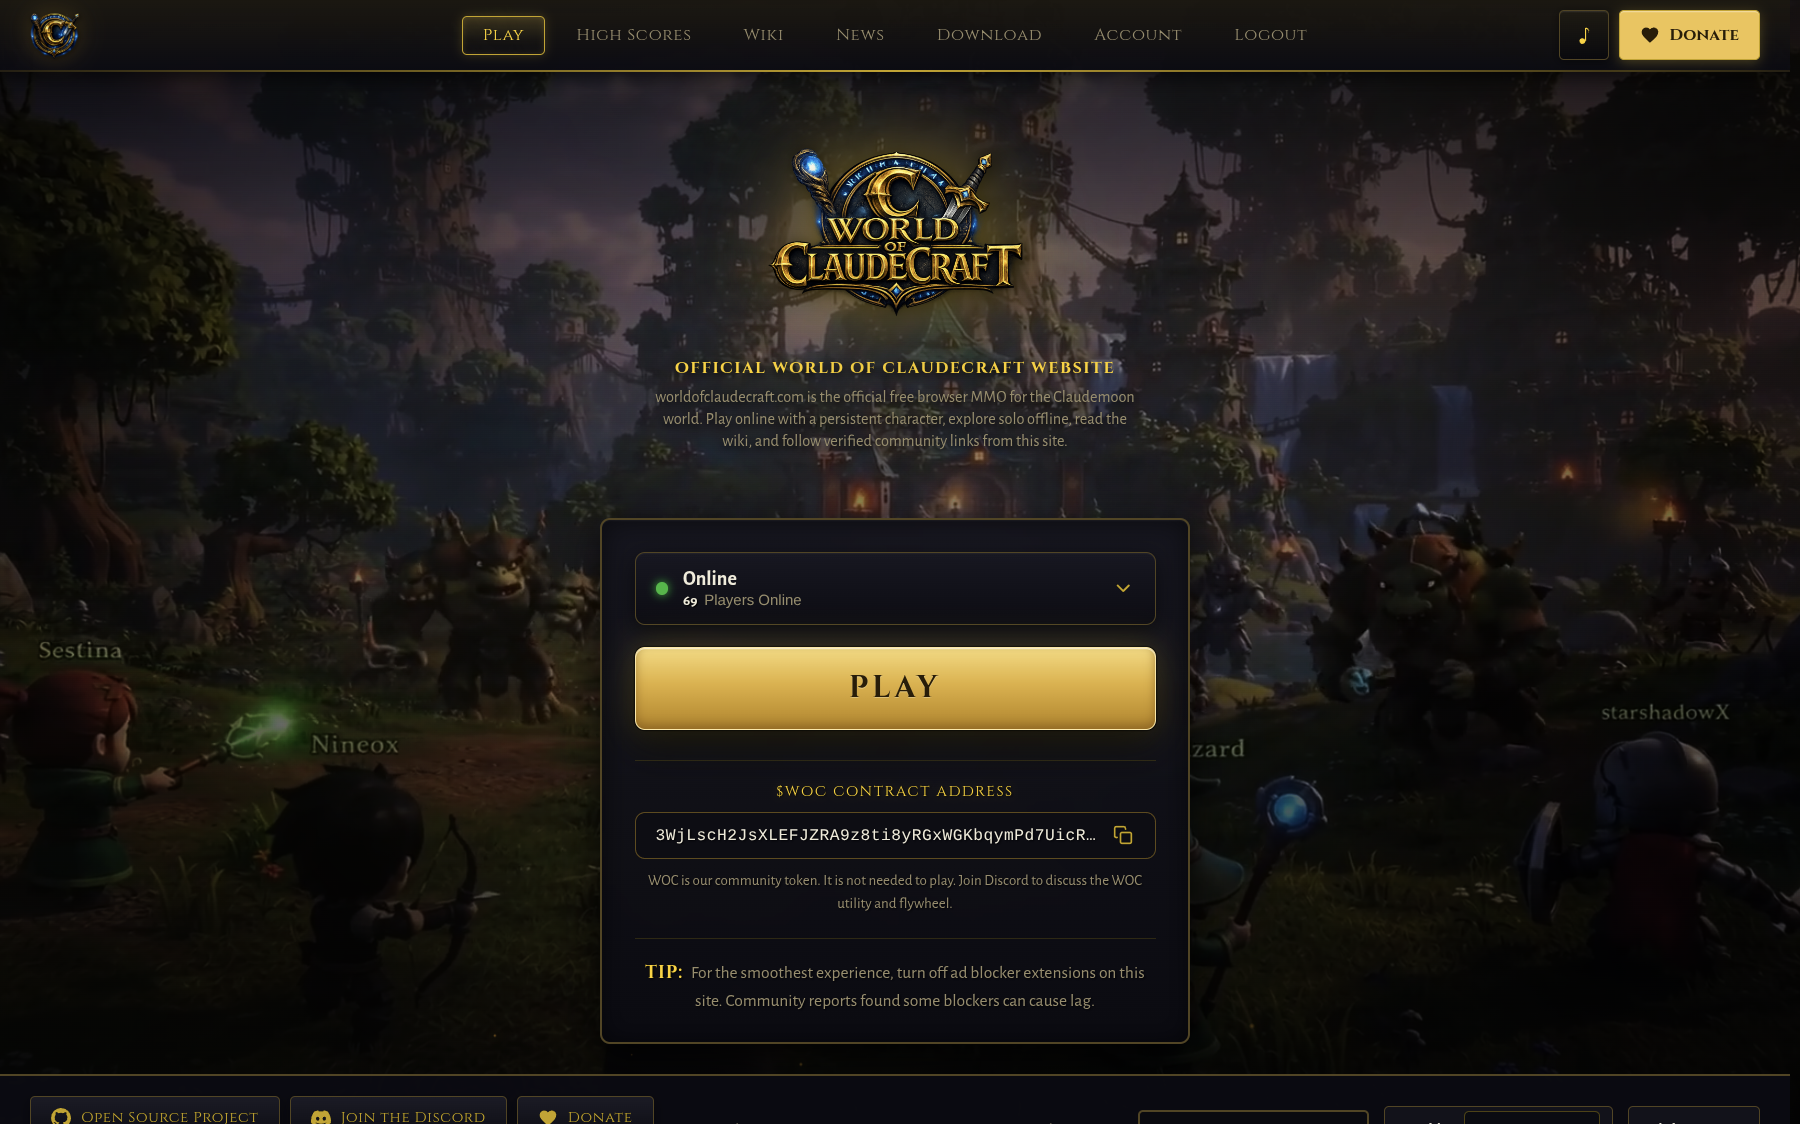
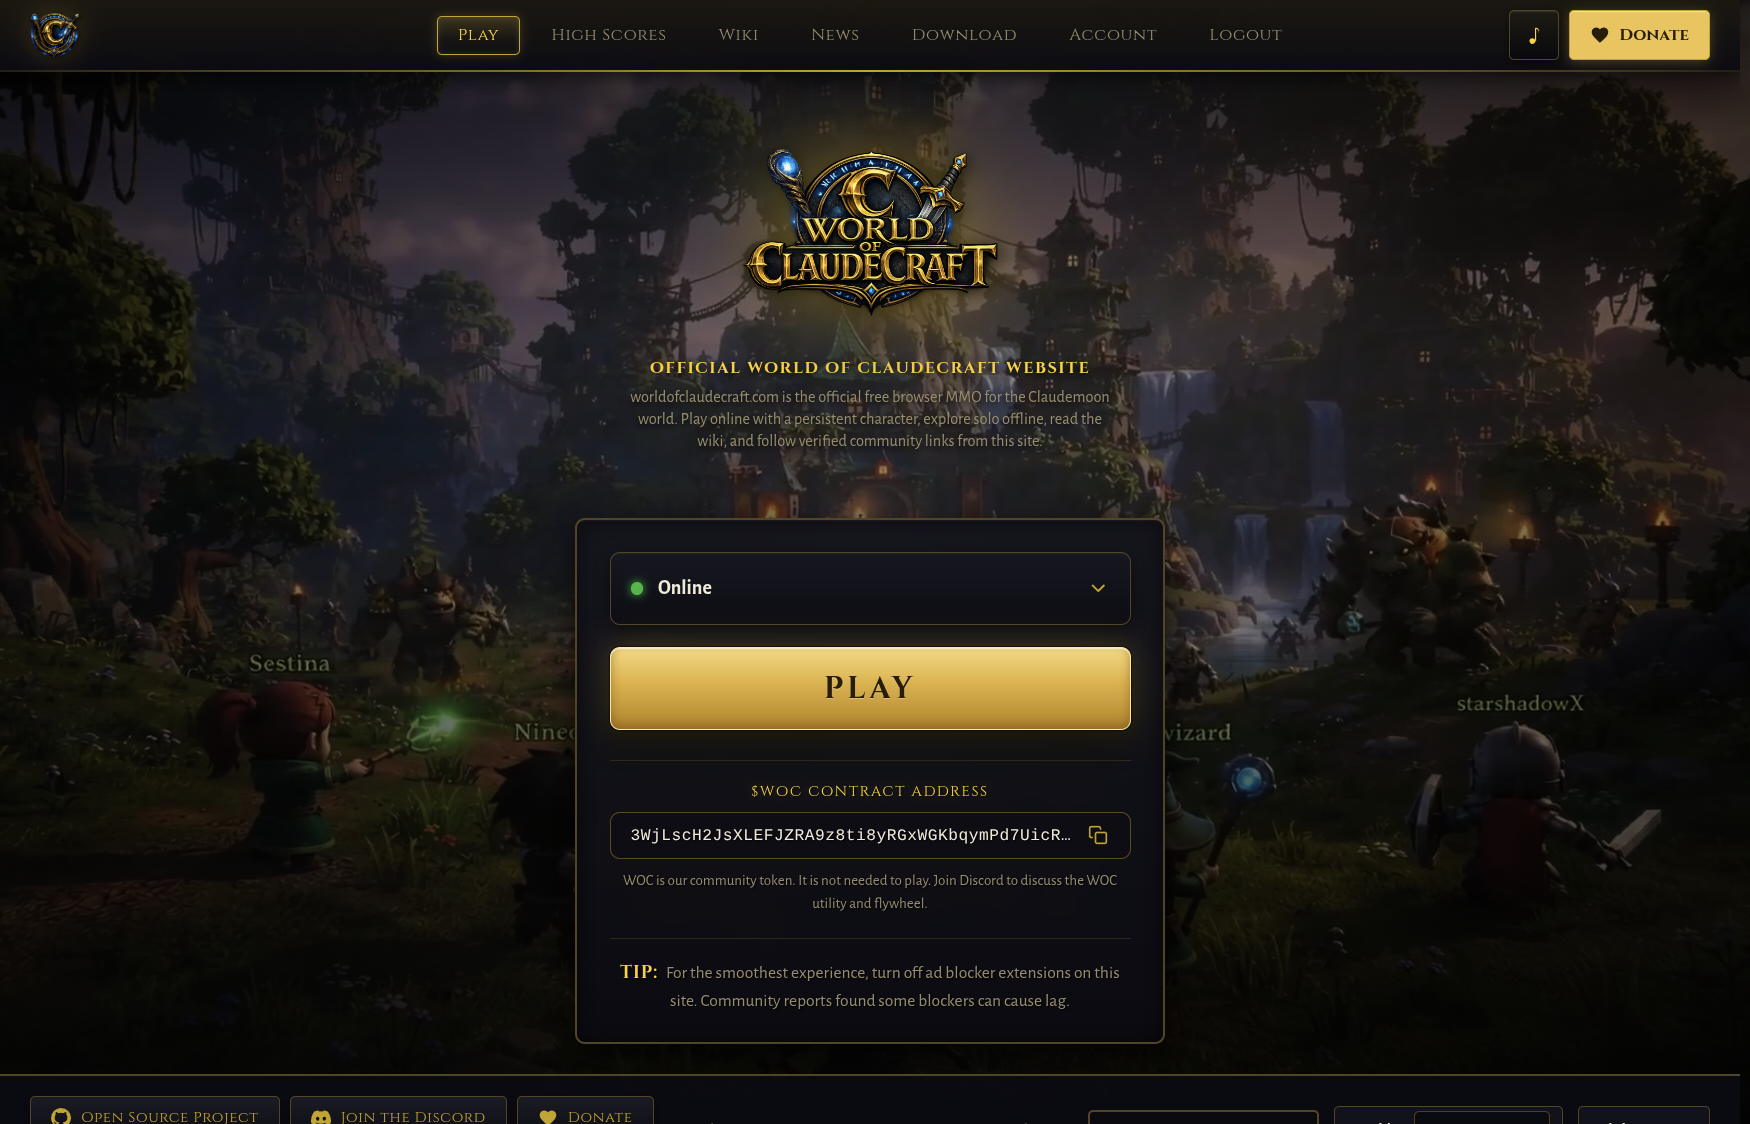
fix(www): remove the player-count stat instead of just relabeling it
A prior commit on this branch rebound the misleading "Players" stat
(actually accounts_created, a lifetime signup total shown next to the
green "Online" dot) to the real players_online live count instead.
Simpler fix per follow-up direction: don't show any player-count
figure on these pages at all.

Removes loadProjectStats() and its localStorage cache from main.ts,
the stat DOM hooks from index.html and play.html, and the CSS that
only existed to style them, leaving just the existing plain
"Online"/"Offline" status text.

diff --git a/tests/project_stats_label.test.ts b/tests/project_stats_label.test.ts
@@ -1,11 +1,12 @@
-// Regression test for the misleading landing-page player count: the "Online" realm
-// option and the /play online status line showed accounts_created (a lifetime total
-// of every account ever registered) under a label that read "Players", right next to
-// the green "Online" dot, implying that many players were concurrently online. The
-// fix rebinds that element to the live players_online count and its matching,
-// already-translated "Players Online" label. Pinned as source greps (matching this
-// suite's existing style, e.g. tests/play_online_only.test.ts) since loadProjectStats
-// lives inside the src/main.ts coordinator, not an extractable pure module.
+// Regression test: the landing page's "Online" realm option and the /play online
+// status line used to show accounts_created (a lifetime total of every account ever
+// registered) under a label that read "Players", right next to the green "Online" dot,
+// implying that many players were concurrently online. That was fixed once to show the
+// real players_online count instead, then removed outright: neither page shows any
+// player-count figure at all anymore, only the plain "Online"/"Offline" status. Pinned
+// as source greps (matching this suite's existing style, e.g.
+// tests/play_online_only.test.ts) since this lives inside the src/main.ts coordinator,
+// not an extractable pure module.
 import { readFileSync } from 'node:fs';
 import { describe, expect, it } from 'vitest';
 
@@ -15,19 +16,21 @@ const indexHtml = read('index.html');
 const playHtml = read('play.html');
 const mainTs = read('src/main.ts');
 
-describe('landing/play online stat shows live players, not lifetime accounts', () => {
-  it('index.html and play.html label the stat "Players Online", not "Players"', () => {
+describe('landing/play pages show no player-count stat', () => {
+  it('index.html and play.html carry no player-count element or stats-value class', () => {
     for (const html of [indexHtml, playHtml]) {
-      expect(html).toContain('js-stat-players-online');
-      expect(html).toContain('data-i18n="stats.playersOnline"');
       expect(html).not.toContain('js-stat-accounts');
+      expect(html).not.toContain('js-stat-players-online');
+      expect(html).not.toContain('class="stats-value');
       expect(html).not.toContain('data-i18n="stats.accountsCreated"');
+      expect(html).not.toContain('data-i18n="stats.playersOnline"');
     }
   });
 
-  it('main.ts binds the stat to players_online, not accounts_created', () => {
-    expect(mainTs).toContain("querySelectorAll<HTMLElement>('.js-stat-players-online')");
-    expect(mainTs).toContain('setAll(accountEls, String(cached.players_online));');
-    expect(mainTs).toContain('setAll(accountEls, String(data.players_online));');
+  it('main.ts has no project-stats fetch/display wiring', () => {
+    expect(mainTs).not.toContain('loadProjectStats');
+    expect(mainTs).not.toContain('projectStats()');
+    expect(mainTs).not.toContain('accounts_created');
+    expect(mainTs).not.toContain('players_online');
   });
 });

diff --git a/src/main.ts b/src/main.ts
@@ -5319,9 +5319,6 @@ function renderClassDetails(
   }
 }
 
-const STATS_CACHE_KEY = 'woc_cached_stats';
-const STATS_CACHE_TTL_MS = 30000; // 30 seconds
-
 function readTranslationKey(value: string | null): TranslationKey | null {
   return value ? (value as TranslationKey) : null;
 }
@@ -5506,68 +5503,6 @@ async function changeLanguage(
   refreshLocalizedDynamicShell();
   document.dispatchEvent(new CustomEvent('woc:languagechange', { detail: { language: selected } }));
   return true;
-}
-
-async function loadProjectStats(): Promise<void> {
-  // Realm status now lives in the realm dropdown, both in the trigger sub-line
-  // and inside the Online option, so update every instance by class. This shows
-  // players_online (a live headcount), never accounts_created (a lifetime total
-  // that reads as a live player count next to the green "Online" dot but isn't one).
-  const accountEls = document.querySelectorAll<HTMLElement>('.js-stat-players-online');
-  if (!accountEls.length) return;
-  const setAll = (els: NodeListOf<HTMLElement>, text: string): void => {
-    els.forEach((el) => {
-      el.textContent = text;
-    });
-  };
-
-  // 1. Try to read from localStorage first
-  let cached: {
-    realm: string;
-    accounts_created: number;
-    players_online: number;
-    timestamp: number;
-  } | null = null;
-  if (typeof localStorage !== 'undefined') {
-    const raw = localStorage.getItem(STATS_CACHE_KEY);
-    if (raw) {
-      try {
-        cached = JSON.parse(raw);
-      } catch {}
-    }
-  }
-
-  // If cache exists and is fresh (within TTL), use it and skip API request
-  if (cached && Date.now() - cached.timestamp < STATS_CACHE_TTL_MS) {
-    setAll(accountEls, String(cached.players_online));
-    return;
-  }
-
-  // 2. Fetch fresh stats
-  try {
-    const data = await api.projectStats();
-
-    setAll(accountEls, String(data.players_online));
-
-    // Save to cache with timestamp
-    if (typeof localStorage !== 'undefined') {
-      localStorage.setItem(
-        STATS_CACHE_KEY,
-        JSON.stringify({
-          ...data,
-          timestamp: Date.now(),
-        }),
-      );
-    }
-  } catch (err) {
-    console.error('Failed to fetch project stats:', err);
-    // If API fails, fall back to cached data (even if expired)
-    if (cached) {
-      setAll(accountEls, String(cached.accounts_created));
-    } else {
-      setAll(accountEls, '–');
-    }
-  }
 }
 
 // Home-page global (cross-realm) lifetime-XP leaderboard. Server computes the
@@ -7448,7 +7383,6 @@ function wireStartScreens(): void {
   // startGame await re-runs the load (in-flight cleared on reject) and owns the fallback.
   void ensureDeedLocalesLoaded(bootLang).catch(() => {});
   hydrateIcons();
-  void loadProjectStats();
   wireContractAddressCopy();
   wireHomepageMusicToggle();
   void wireWallet();

diff --git a/index.html b/index.html
@@ -656,9 +656,6 @@
                 <span class="server-select-text">
                   <span class="server-select-value" id="server-select-value" data-i18n="mode.serverOnline">Online</span>
                   <span class="server-select-sub" id="server-select-sub">
-                    <span class="server-realm-line" data-mode="online">
-                      <b class="stats-value js-stat-players-online">…</b> <span data-i18n="stats.playersOnline">Players Online</span>
-                    </span>
                     <span class="server-sub-offline" data-mode="offline" data-i18n="mode.serverOfflineSub" hidden>Instant local world</span>
                   </span>
                 </span>
@@ -670,9 +667,6 @@
                   <span class="server-opt-text">
                     <span class="server-opt-name" data-i18n="mode.serverOnline">Online</span>
                     <span class="server-opt-desc" data-i18n="mode.onlineDesc">Log in to the world. Your characters live on the server and you share the world with everyone else who's on.</span>
-                    <span class="server-opt-stats">
-                      <b class="stats-value js-stat-players-online">…</b> <span data-i18n="stats.playersOnline">Players Online</span>
-                    </span>
                   </span>
                   <svg class="server-opt-check" viewBox="0 0 24 24" aria-hidden="true" fill="none" stroke="currentColor" stroke-width="2.5" stroke-linecap="round" stroke-linejoin="round"><polyline points="20 6 9 17 4 12"></polyline></svg>
                 </div>

diff --git a/src/styles/shell.css b/src/styles/shell.css
@@ -1136,8 +1136,6 @@
     color: var(--color-text-muted);
   }
 
-  /* Realm stats, live counts shown in the realm dropdown (trigger sub-line +
-     the opened Online option). */
   .realm-status-sep {
     display: inline-block;
     width: 1px;
@@ -1146,21 +1144,6 @@
     vertical-align: middle;
     background: rgba(255, 209, 0, 0.3);
   }
-  .server-realm-line .stats-value,
-  .server-opt-stats .stats-value {
-    font-family: var(--font-ui);
-    font-size: 12px;
-    font-weight: 700;
-    color: var(--color-text-light);
-    margin-right: 2px;
-  }
-  .server-opt-stats {
-    display: block;
-    margin-top: 6px;
-    font-size: 12px;
-    color: var(--color-text-muted);
-  }
-  .server-realm-line[hidden],
   .server-sub-offline[hidden] {
     display: none;
   }
@@ -1198,14 +1181,6 @@
     font-size: 11.5px;
     text-transform: uppercase;
     letter-spacing: 0.5px;
-  }
-
-  .stats-value {
-    color: var(--color-text-light);
-    font-family: var(--font-heading);
-    font-size: 16px;
-    font-weight: bold;
-    text-shadow: 1px 1px 1px #000;
   }
 
   #stat-players-online {

diff --git a/src/styles/play.extra.css b/src/styles/play.extra.css
@@ -20,9 +20,9 @@
     }
   }
 
-  /* /play is online-only: the play console is just the Play button over a live
-     players line (no realm selector). Undo the two-column landscape grid the
-     shared hud.mobile.css applies to the selector + button pair. */
+  /* /play is online-only: the play console is just the Play button over a static
+     online status line (no realm selector, no live count). Undo the two-column
+     landscape grid the shared hud.mobile.css applies to the selector + button pair. */
   .play-console-solo,
   body.mobile-touch .play-console-solo {
     display: flex;
@@ -43,8 +43,5 @@
     font-size: 13px;
     color: var(--color-text-muted);
     text-shadow: 1px 1px 2px #000;
-  }
-  .play-online-status .stats-value {
-    color: var(--color-text-light);
   }
 }

diff --git a/tests/play_online_only.test.ts b/tests/play_online_only.test.ts
@@ -30,10 +30,11 @@ describe('/play is online-only', () => {
     }
     // The online compat trigger stays: E2E tours drive the online flow through it.
     expect(playHtml).toContain('id="btn-online"');
-    // The solo console keeps the single Play CTA plus the live players line.
+    // The solo console keeps the single Play CTA plus a static online status line
+    // (no live player count: see docs/screenshots/misleading-online-players).
     expect(playHtml).toContain('class="play-console play-console-solo"');
     expect(playHtml).toContain('id="btn-play"');
-    expect(playHtml).toContain('js-stat-players-online');
+    expect(playHtml).toContain('class="play-online-status"');
   });
 
   it('index.html (the landing page) keeps the realm dropdown and offline flow', () => {

diff --git a/play.html b/play.html
@@ -591,7 +591,7 @@
             </button>
             <div class="play-online-status">
               <span class="server-dot" data-mode="online" aria-hidden="true"></span>
-              <b class="stats-value js-stat-players-online">…</b> <span data-i18n="stats.playersOnline">Players Online</span>
+              <span data-i18n="mode.serverOnline">Online</span>
             </div>
           </div>
 

diff --git a/docs/screenshots/misleading-online-players/README.md b/docs/screenshots/misleading-online-players/README.md
@@ -1,10 +1,12 @@
-# Misleading "Players" stat next to the Online indicator
+# Removed the misleading "Players" stat next to the Online indicator
 
 `before-landing-full.png` / `after-landing-full.png` (index.html realm selector) and
 `before-play-full.png` / `after-play-full.png` (play.html online status line) show the
-same landing-page stat before and after the fix, captured from the same dev build with
-a live local server (small player counts are the local test environment; production
-showed a much larger, equally misleading lifetime-accounts figure).
+same page before and after the fix, captured from the same dev build with a live local
+server (small player counts in the "before" shot are the local test environment;
+production showed a much larger, equally misleading lifetime-accounts figure).
+`after-landing-dropdown.png` shows the opened realm dropdown: the "Online" option now
+carries only its description text, no stat line.
 
 ```mermaid
 flowchart LR
@@ -17,18 +19,18 @@ flowchart LR
         D((green Online dot))
     end
     subgraph after[After]
-        E[label: Players Online, value: 69, bound to players_online]
+        E[no count shown at all]
         F((green Online dot))
     end
     A -. wrongly bound .-> C
-    B -. correctly bound .-> E
     D --- C
     F --- E
 ```
 
-Root cause: `loadProjectStats()` in `src/main.ts` fetched both fields from the API but
-rendered `.js-stat-accounts` (labeled "Players") from `accounts_created`, a lifetime
-total of every account ever registered, right beside the green "Online" indicator. That
-read as a live player count. `stats.playersOnline` ("Players Online") already existed,
-fully translated, but was never wired up. Fix: rebind the element (renamed
-`.js-stat-players-online`) to `players_online` and use the existing label.
+Root cause: `loadProjectStats()` in `src/main.ts` rendered a "Players" figure from
+`accounts_created`, a lifetime total of every account ever registered, right beside the
+green "Online" indicator. That read as a live player count when it wasn't one. A first
+pass rebound the element to the real `players_online` live count instead, but the
+simpler, requested fix is to not show any player-count figure on these pages at all:
+`loadProjectStats()`, its DOM hooks, and the now-dead CSS for them were removed
+entirely, leaving just the plain "Online"/"Offline" status text that was already there.
